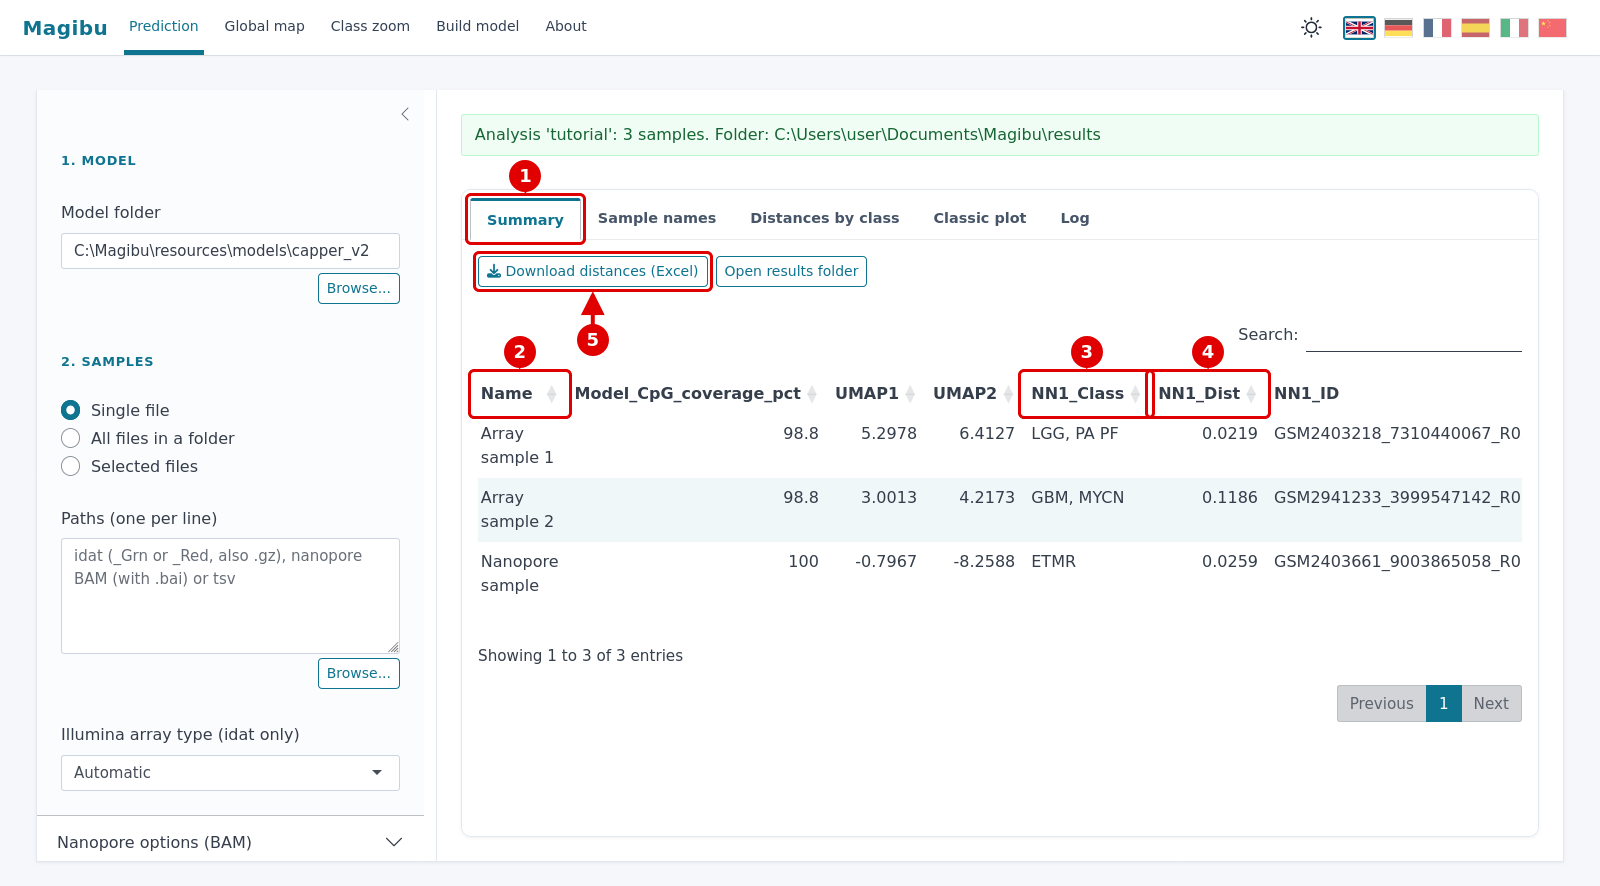
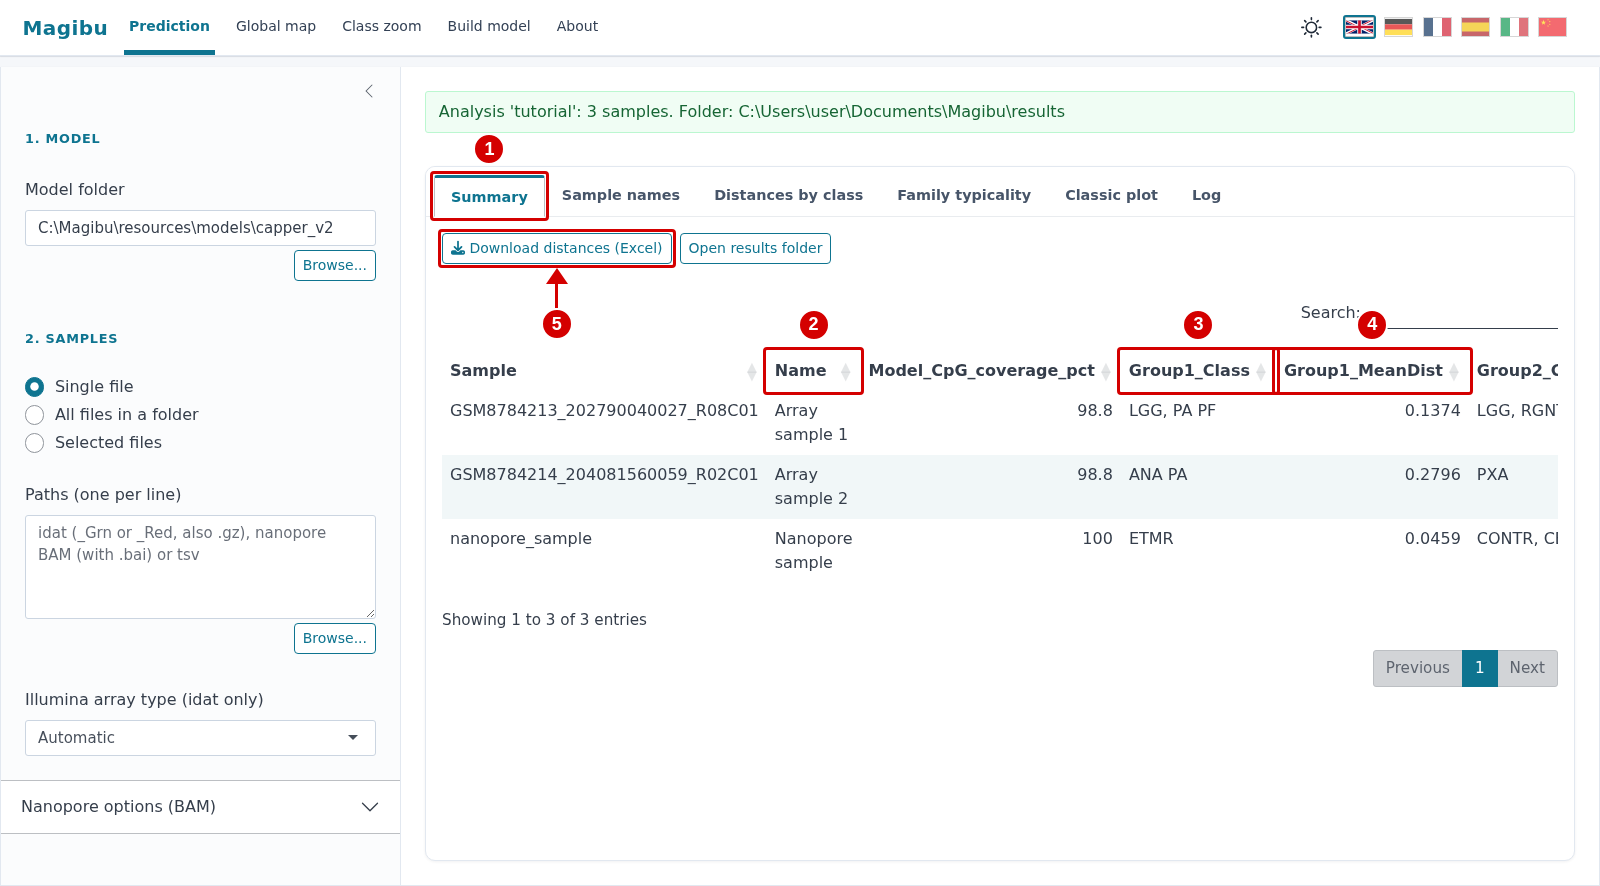
Release 0.8.0: Group columns first in the Summary, new screenshots, download links
- Summary order: Sample, coverage, Group1-3 (the result), typicality, then UMAP, NN, kNN
- Screenshots redone with the 0.8.0 app: Methylation options (separated / summed),
  Summary with Group1_Class and Group1_MeanDist highlighted
- Download links point to the v0.8.0-app release

diff --git a/App/docs/EXPRESS_TUTORIAL.md b/App/docs/EXPRESS_TUTORIAL.md
@@ -13,7 +13,7 @@ Classify your samples in a few clicks. The red numbers in each picture match the
 
 For every option, see the [full tutorial](TUTORIAL.md). **Research use only.**
 
-> **Download:** [Magibu for Windows (zip, 650 MB)](https://github.com/GianlucaMattei/MAGIBU/releases/download/v0.7.0-app/Magibu-0.7.0-win.zip).
+> **Download:** [Magibu for Windows (zip, 650 MB)](https://github.com/GianlucaMattei/MAGIBU/releases/download/v0.8.0-app/Magibu-0.8.0-win.zip).
 > Unzip it in any folder and double click **Magibu.exe**. No installation needed.
 
 ---
@@ -74,7 +74,7 @@ Scroll down the left panel.
 
 **2.** **Name**: the sample.
 
-**3.** Scroll the table to the right to the **Group1_Class** column: the closest class, that is the class whose
+**3.** **Group1_Class**: the closest class, that is the class whose
 5 closest reference samples are, on average, nearest to your sample. **This is the result.**
 
 **4.** **Group1_MeanDist**: that average distance. **Smaller = more similar.** Compare it with

diff --git a/README.md b/README.md
@@ -6,7 +6,7 @@
 ## Magibu App for Windows
 
 <p align="center">
-  <a href="https://github.com/GianlucaMattei/MAGIBU/releases/download/v0.7.0-app/Magibu-0.7.0-win.zip"><img alt="Download for Windows" height="64" src="https://img.shields.io/badge/DOWNLOAD%20FOR%20WINDOWS-v0.7.0-d73a49?style=for-the-badge"></a>
+  <a href="https://github.com/GianlucaMattei/MAGIBU/releases/download/v0.8.0-app/Magibu-0.8.0-win.zip"><img alt="Download for Windows" height="64" src="https://img.shields.io/badge/DOWNLOAD%20FOR%20WINDOWS-v0.8.0-d73a49?style=for-the-badge"></a>
 </p>
 
 <p align="center">

diff --git a/App/docs/TUTORIAL.md b/App/docs/TUTORIAL.md
@@ -105,7 +105,7 @@ Results are saved, so an analysis can be opened again later without running it a
 3. **Download distances (Excel)**: saves all the tables in one Excel file.
 4. **Open results folder**: opens the output folder.
 
-Scroll the table to the right to see the classification:
+The classification comes right after the coverage:
 
 ![Classification columns](img/r03_summary_class.png)
 
